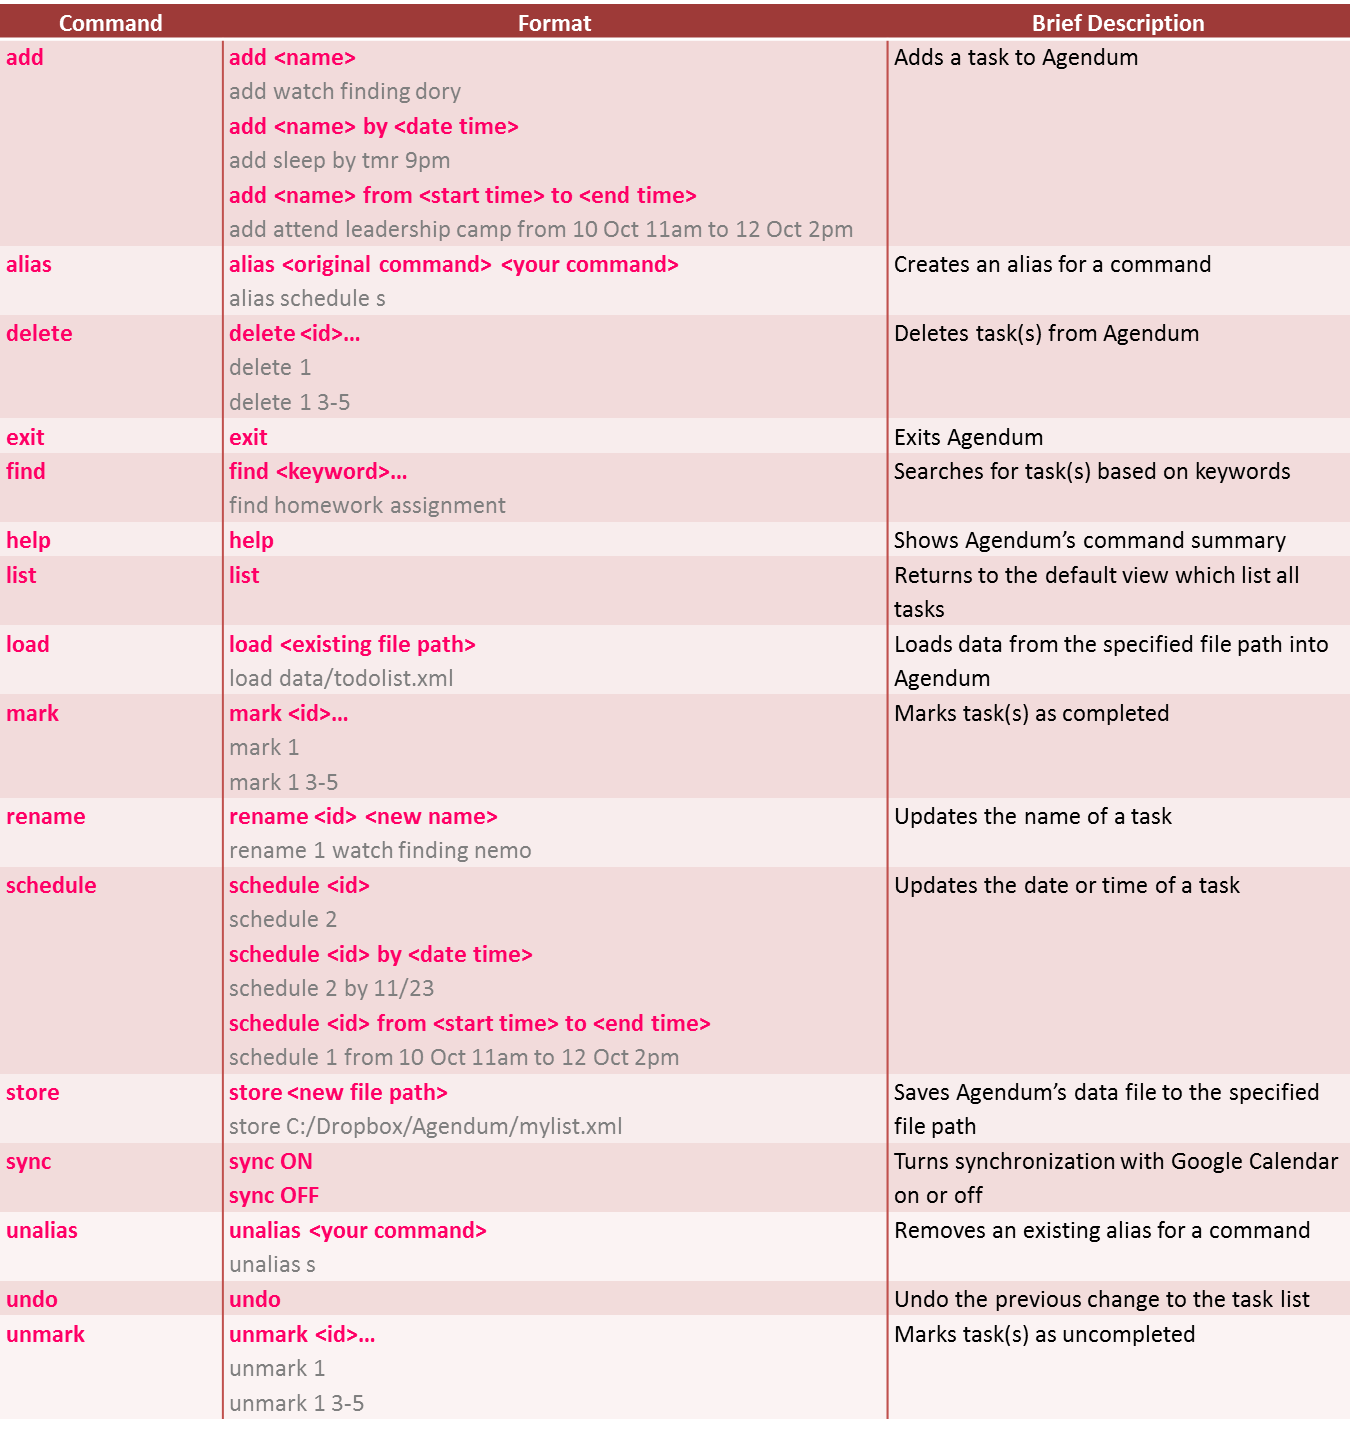
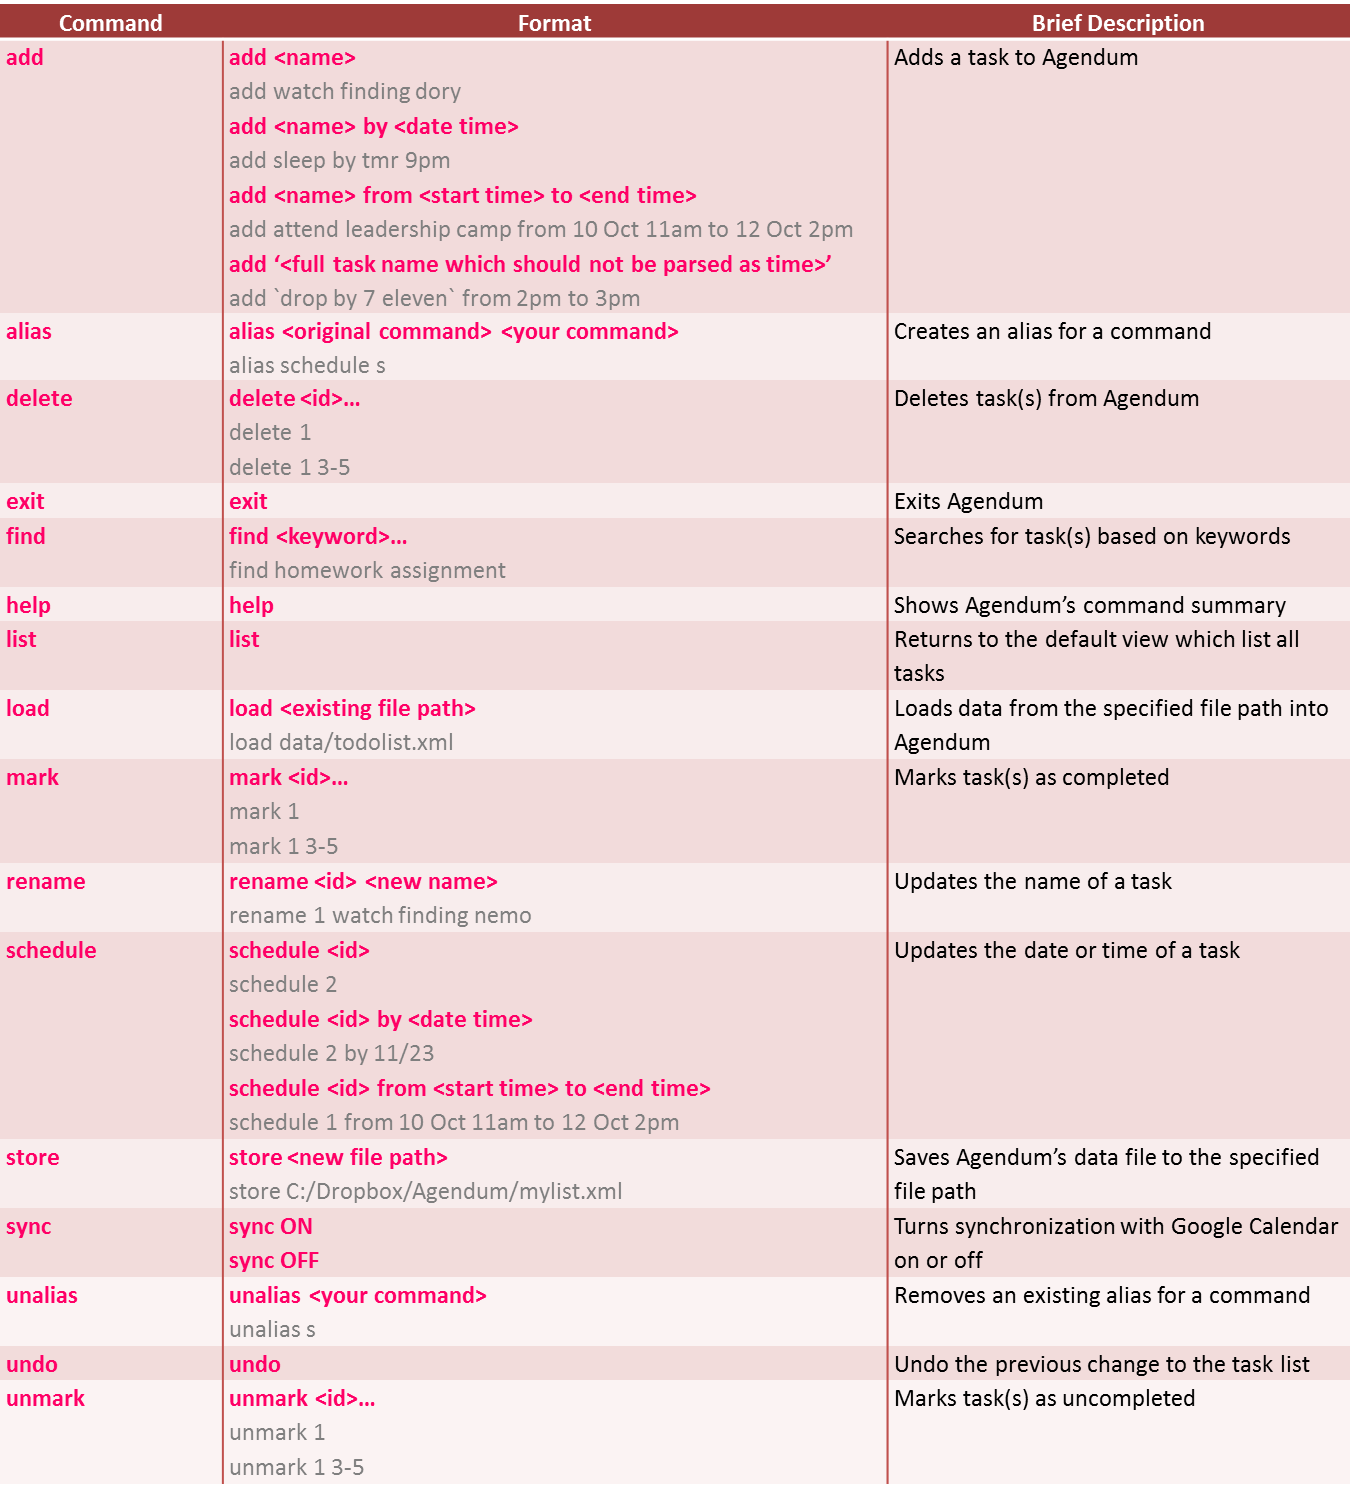
update description for add with single quotation marks

diff --git a/docs/UserGuide.md b/docs/UserGuide.md
@@ -174,6 +174,10 @@ It will have a start time 30 Oct 7pm and end time 30 Oct 9.30pm.
 
 > A task cannot have both a deadline and a event time.
 
+Did Agendum intepret part of your task name as a deadline/event time when you did not intend for it to do so? Simply `undo` the last command and remember to enclose your task name with **single** quotation mark this time around.
+```
+> add 'drop by 7 eleven' by tmr
+```
 
 #### Date Time Format
 How do you specify the `<deadline>`, `<start time>` and `<end time>` of a task?
@@ -226,7 +230,7 @@ Note
 
 Helpful tip: With Agendum, you can skip typing the second date only if the deadline/event is **happening some time in the future**
 ```
-> add attend wedding dinner from 10 Nov 8pm to 9pm
+> add attend wedding dinner from 30 Nov 8pm to 9pm
 ```
 
 
